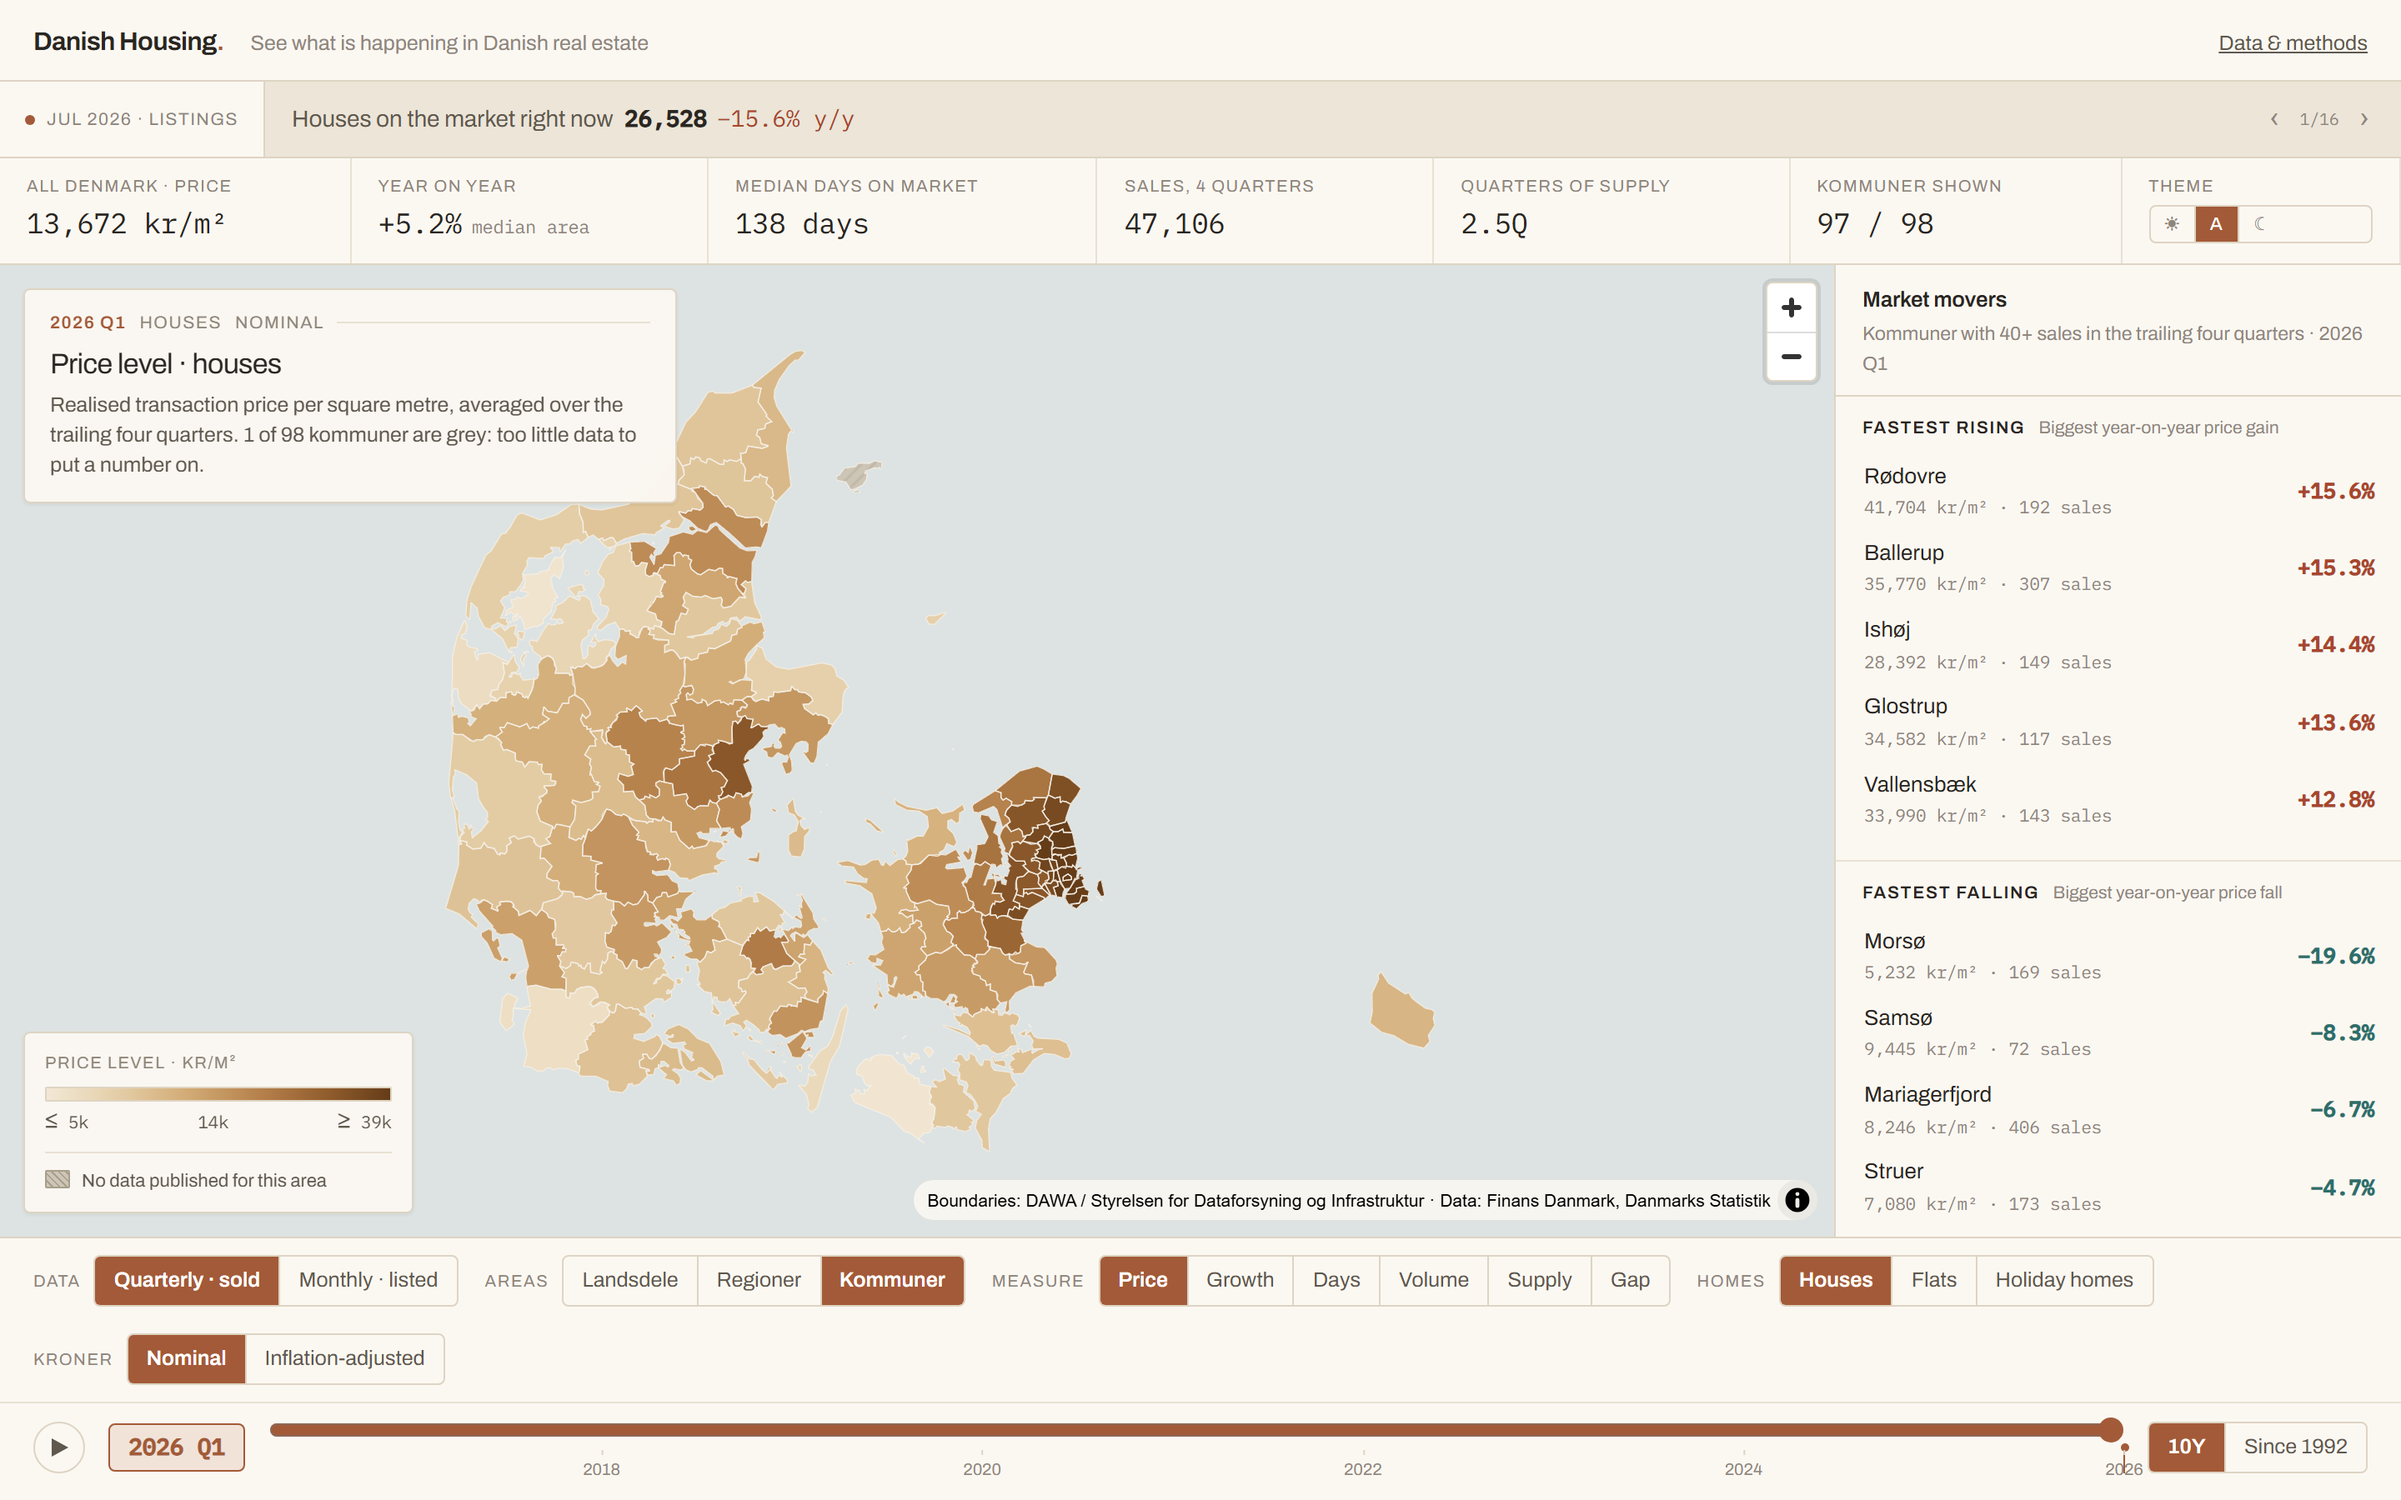
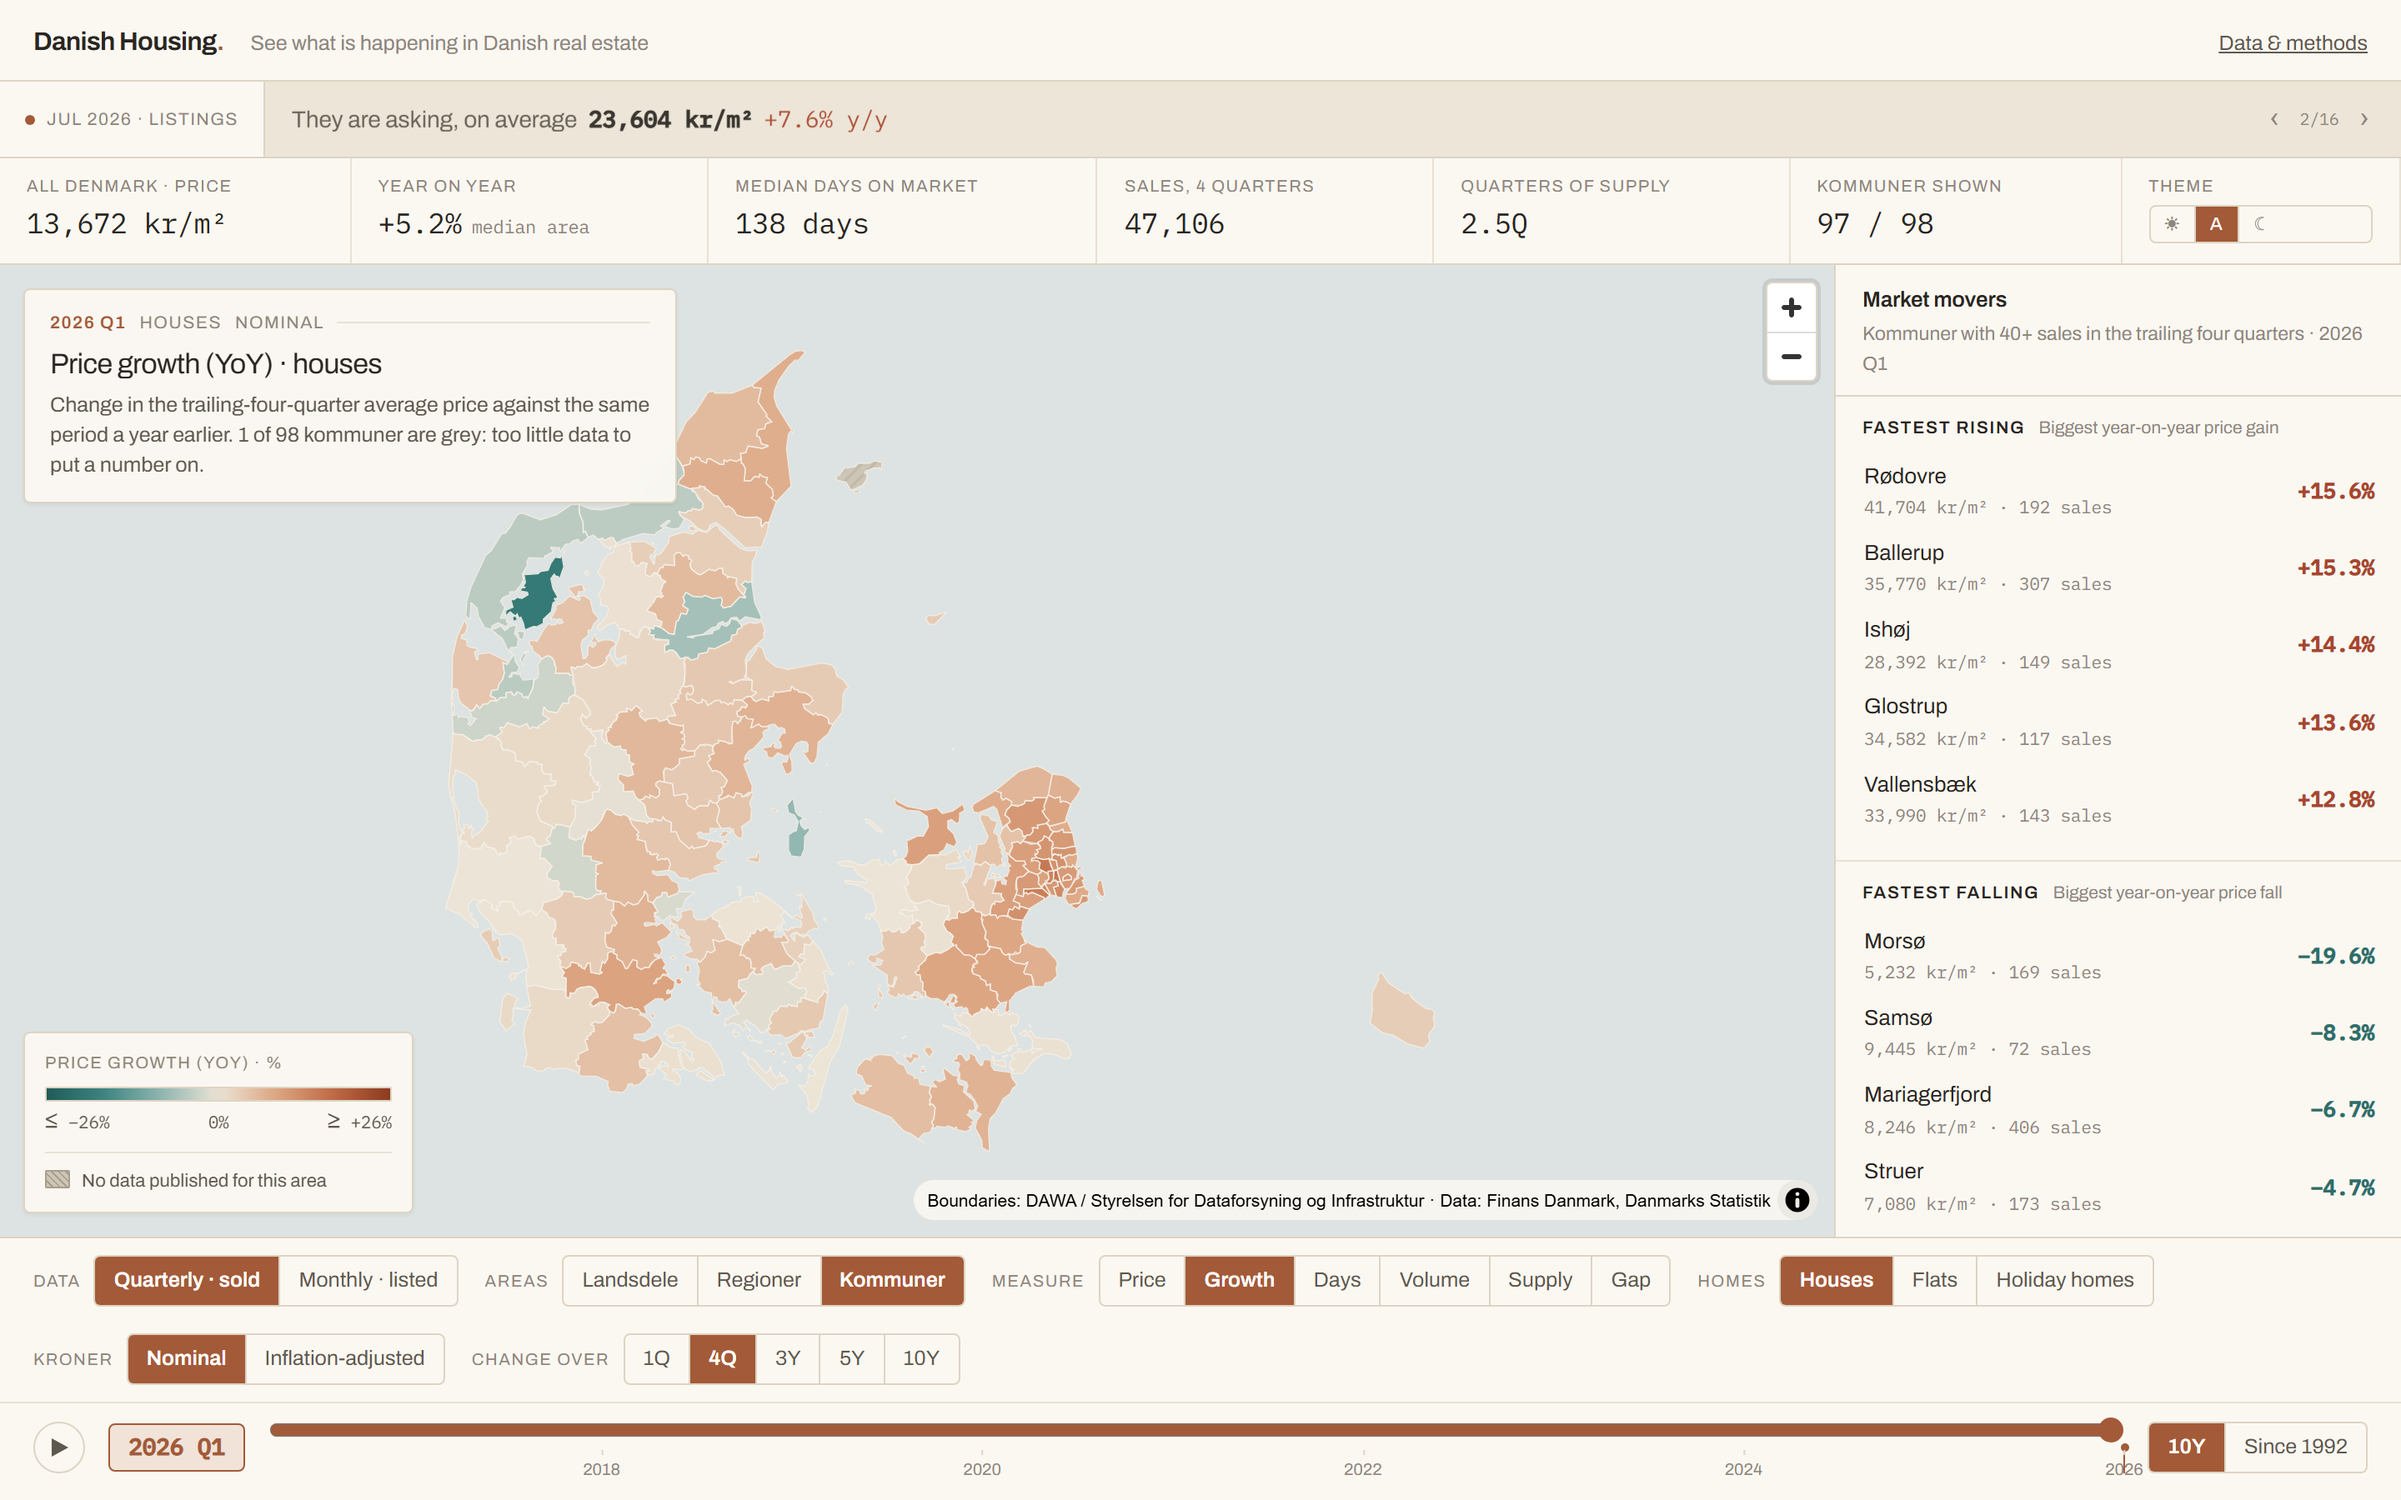
Fly the map to an area when it is picked, and default to growth
Two things that made the map harder to read than it needed to be.

Picking an area from the rankings only drew an outline around it. Finding
which of 98 outlines just changed is genuinely difficult, so the camera now
moves to the selected area and pulls back out when the selection clears.
Zoom is clamped at both ends: at least ~1.1 steps in, so picking a large
landsdel visibly does something, and no closer than 9.2, so picking
Frederiksberg does not drop you onto individual streets.

Found a real bug doing it. The focus padding leaves room for the overlay
card and legend, but on a short map area the vertical padding could equal
the canvas height, and cameraForBounds then returns a NaN centre and the
camera silently does not move. Padding is now clamped to a fraction of the
canvas and every camera is validated before use.

The default measure is now growth rather than price level. The price map
looks much the same in any quarter - Copenhagen expensive, west Jutland
cheap - whereas growth actually changes, and it is what makes the timeline
worth scrubbing. Costs nothing: the first-paint snapshot already carries
yoy_pct, so the opening view still needs no query engine.

Screenshots regenerated to match.

diff --git a/components/MarketMap.tsx b/components/MarketMap.tsx
@@ -39,6 +39,38 @@ const GEO_SRC: Record<GeoLevel, string> = {
 
 const geoUrl = (l: GeoLevel) => asset(GEO_SRC[l]);
 
+type BBox = [number, number, number, number];
+
+/** 走一遍坐标算 bbox。只在换层级时跑一次，98 个多边形没什么代价。 */
+function bboxOf(geometry: GeoJSON.Geometry): BBox | null {
+  let w = 180, s = 90, e = -180, n = -90;
+  const walk = (c: unknown): void => {
+    if (typeof (c as number[])[0] === "number") {
+      const [x, y] = c as number[];
+      if (x < w) w = x;
+      if (x > e) e = x;
+      if (y < s) s = y;
+      if (y > n) n = y;
+      return;
+    }
+    for (const k of c as unknown[]) walk(k);
+  };
+  if (!("coordinates" in geometry)) return null;
+  walk(geometry.coordinates);
+  return e > w && n > s ? [w, s, e, n] : null;
+}
+
+function indexBBoxes(geo: GeoJSON.FeatureCollection): Map<string, BBox> {
+  const out = new Map<string, BBox>();
+  for (const f of geo.features) {
+    const code = f.properties?.code as string | undefined;
+    if (!code || !f.geometry) continue;
+    const b = bboxOf(f.geometry);
+    if (b) out.set(code, b);
+  }
+  return out;
+}
+
 export interface AreaMeta {
   code: string;
   name: string;
@@ -85,6 +117,43 @@ function cssVar(name: string, fallback: string): string {
 }
 const FIT_PADDING = { top: 28, bottom: 28, left: 28, right: 28 };
 
+/** 聚焦时至少要拉近这么多档，否则"点了没反应"。约等于放大两倍。 */
+const MIN_FOCUS_STEP = 1.1;
+/** 再近就只剩街道了，对一张统计地图没意义。 */
+const MAX_FOCUS_ZOOM = 9.2;
+
+/**
+ * 聚焦时的留白。左上角压着说明卡片、左下角压着图例，
+ * 不把这两块让出来的话，选中的区域会正好躲在卡片后面。
+ *
+ * 每一边都按画布尺寸夹一次。**留白一旦吃满画布，cameraForBounds 会返回
+ * NaN 的中心点，镜头就一动不动，看着像功能没做。**
+ * 地图区域在矮窗口、手机横屏下真的会只有两三百像素高。
+ */
+function focusPadding(m: MlMap) {
+  const cv = m.getCanvas();
+  const w = cv.clientWidth || 1;
+  const h = cv.clientHeight || 1;
+  const wide = w >= 700;
+  return {
+    left: Math.min(wide ? 430 : 30, w * 0.35),
+    right: Math.min(60, w * 0.15),
+    top: Math.min(wide ? 60 : 140, h * 0.25),
+    bottom: Math.min(wide ? 120 : 140, h * 0.25),
+  };
+}
+
+/** cameraForBounds 在留白过大等情况下会给出 NaN，用之前必须验一遍 */
+function usableCamera(cam: { center?: unknown; zoom?: number } | null | undefined) {
+  if (!cam || typeof cam.zoom !== "number" || !Number.isFinite(cam.zoom)) {
+    return false;
+  }
+  const c = cam.center as { lng?: number; lat?: number } | undefined;
+  const lng = c?.lng ?? (Array.isArray(c) ? c[0] : undefined);
+  const lat = c?.lat ?? (Array.isArray(c) ? c[1] : undefined);
+  return Number.isFinite(lng) && Number.isFinite(lat);
+}
+
 export default function MarketMap({
   rows,
   metric,
@@ -101,6 +170,7 @@ export default function MarketMap({
   const holder = useRef<HTMLDivElement>(null);
   const map = useRef<MlMap | null>(null);
   const resizeObs = useRef<ResizeObserver | null>(null);
+  const bboxes = useRef<Map<string, BBox>>(new Map());
   const [ready, setReady] = useState(false);
   const [hover, setHover] = useState<HoverInfo | null>(null);
 
@@ -154,6 +224,7 @@ export default function MarketMap({
       m.addImage("hatch", makeHatch(palette(theme).grayLine), { pixelRatio: 2 });
 
       const geo = await fetch(geoUrl(levelRef.current)).then((r) => r.json());
+      bboxes.current = indexBBoxes(geo);
       m.addSource("kom", {
         type: "geojson",
         data: geo,
@@ -286,6 +357,7 @@ export default function MarketMap({
       .then((geo) => {
         if (!alive || !map.current) return;
         (m.getSource("kom") as maplibregl.GeoJSONSource).setData(geo);
+        bboxes.current = indexBBoxes(geo);
         loadedLevel.current = level;
         m.fitBounds(DK_BOUNDS, { padding: FIT_PADDING, animate: false });
       })
@@ -407,7 +479,7 @@ export default function MarketMap({
     }
   }, [rows, metric, domains, category, ready, areaNames, theme]);
 
-  /* ---------------- 选中态 ---------------- */
+  /* ---------------- 选中态 + 聚焦 ---------------- */
   const prevSel = useRef<string | null>(null);
   useEffect(() => {
     const m = map.current;
@@ -421,6 +493,31 @@ export default function MarketMap({
     if (selected) {
       m.setFeatureState({ source: "kom", id: selected }, { selected: true });
     }
+
+    // 从侧栏点一个区域名，光描个边框是不够的 —— 98 个 kommune 里
+    // 认出被高亮的那个本身就很费劲。所以镜头跟过去。
+    if (selected) {
+      const b = bboxes.current.get(selected);
+      if (b) {
+        const cam = m.cameraForBounds(b, { padding: focusPadding(m) });
+        if (usableCamera(cam)) {
+          // 上下限都要卡：不卡下限的话，选一个很大的 landsdel 镜头几乎不动，
+          // 看着像没反应；不卡上限的话，选 Frederiksberg 会一头扎到街道级别。
+          const base = m.getZoom();
+          const z = Math.min(
+            MAX_FOCUS_ZOOM,
+            Math.max(cam!.zoom ?? base, base + MIN_FOCUS_STEP),
+          );
+          m.easeTo({ center: cam!.center, zoom: z, duration: 600 });
+        }
+      }
+    } else if (prevSel.current) {
+      // 只在"刚刚取消选中"时退回全国视图。挂载时 selected 本来就是 null，
+      // 那时候不该动镜头（初始 fitBounds 已经做过了）。
+      const home = m.cameraForBounds(DK_BOUNDS, { padding: FIT_PADDING });
+      if (usableCamera(home)) m.easeTo({ ...home!, duration: 500 });
+    }
+
     prevSel.current = selected;
   }, [selected, ready]);
 

diff --git a/components/Explorer.tsx b/components/Explorer.tsx
@@ -74,7 +74,10 @@ export default function Explorer({
   const [freq, setFreq] = useState<Frequency>("quarter");
   const [level, setLevel] = useState<GeoLevel>("kommune");
   const [category, setCategory] = useState<Category>("house");
-  const [metricId, setMetricId] = useState<MetricId>("price");
+  // 默认看增长率而不是价格水平。价格水平那张图三十年来的形状几乎不变
+  // —— 哥本哈根一直最贵，西日德兰一直最便宜，看一眼就没什么可看的了。
+  // 增长率每个季度都在变，而且 snapshot 里就有 yoy_pct，首屏照样不用等 DuckDB。
+  const [metricId, setMetricId] = useState<MetricId>("growth");
   const [windowId, setWindowId] = useState<WindowId>("4Q");
   const [quarter, setQuarter] = useState(latestQuarter);
   const [month, setMonth] = useState(months[months.length - 1] ?? "");

diff --git a/README.md b/README.md
@@ -6,7 +6,7 @@ map.
 
 ### → [huiyuleo.github.io/Danish-Housing](https://huiyuleo.github.io/Danish-Housing/)
 
-![The map, showing price per square metre by kommune](docs/img/map-light.png)
+![Year-on-year house price growth by kommune, 2026 Q1](docs/img/map-light.png)
 
 ---
 
@@ -40,6 +40,7 @@ the east — Zealand deep in blue while west Jutland was still rising:
 
 - Switch between **11 landsdele, 5 regioner and 98 kommuner** — all published
   levels, none aggregated by hand.
+- Click any area in the rankings and the map flies to it.
 - Six measures: price, growth, days on market, transaction volume, quarters of
   supply, and the gap between asking and realised prices.
 - **Play the timeline** from 1992 to today.
